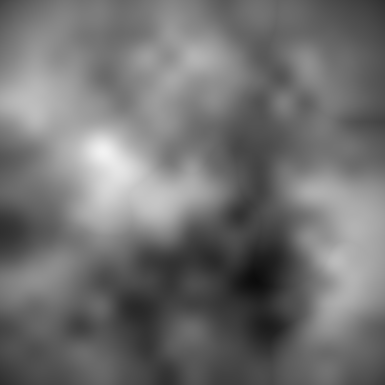
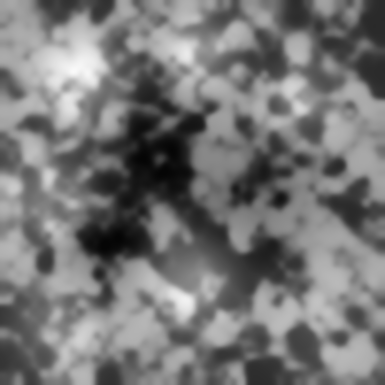
Deploy: steeper terrain + cloud layer (575a9da)

diff --git a/firewolf_client.js b/firewolf_client.js
@@ -1595,57 +1595,57 @@ function __wbg_get_imports() {
             return ret;
         },
         __wbindgen_cast_0000000000000001: function(arg0, arg1) {
-            // Cast intrinsic for `Closure(Closure { owned: true, function: Function { arguments: [Externref], shim_idx: 42385, ret: Result(Unit), inner_ret: Some(Result(Unit)) }, mutable: true }) -> Externref`.
+            // Cast intrinsic for `Closure(Closure { owned: true, function: Function { arguments: [Externref], shim_idx: 42687, ret: Result(Unit), inner_ret: Some(Result(Unit)) }, mutable: true }) -> Externref`.
             const ret = makeMutClosure(arg0, arg1, wasm_bindgen__convert__closures_____invoke__h1dd2e5f569296800);
             return ret;
         },
         __wbindgen_cast_0000000000000002: function(arg0, arg1) {
-            // Cast intrinsic for `Closure(Closure { owned: true, function: Function { arguments: [Externref], shim_idx: 6804, ret: Unit, inner_ret: Some(Unit) }, mutable: true }) -> Externref`.
+            // Cast intrinsic for `Closure(Closure { owned: true, function: Function { arguments: [Externref], shim_idx: 7106, ret: Unit, inner_ret: Some(Unit) }, mutable: true }) -> Externref`.
             const ret = makeMutClosure(arg0, arg1, wasm_bindgen__convert__closures_____invoke__h089794d91ba63d12);
             return ret;
         },
         __wbindgen_cast_0000000000000003: function(arg0, arg1) {
-            // Cast intrinsic for `Closure(Closure { owned: true, function: Function { arguments: [NamedExternref("Array<any>"), NamedExternref("ResizeObserver")], shim_idx: 6802, ret: Unit, inner_ret: Some(Unit) }, mutable: true }) -> Externref`.
+            // Cast intrinsic for `Closure(Closure { owned: true, function: Function { arguments: [NamedExternref("Array<any>"), NamedExternref("ResizeObserver")], shim_idx: 7104, ret: Unit, inner_ret: Some(Unit) }, mutable: true }) -> Externref`.
             const ret = makeMutClosure(arg0, arg1, wasm_bindgen__convert__closures_____invoke__hb404d5457b36c9fe);
             return ret;
         },
         __wbindgen_cast_0000000000000004: function(arg0, arg1) {
-            // Cast intrinsic for `Closure(Closure { owned: true, function: Function { arguments: [NamedExternref("Array<any>")], shim_idx: 6804, ret: Unit, inner_ret: Some(Unit) }, mutable: true }) -> Externref`.
+            // Cast intrinsic for `Closure(Closure { owned: true, function: Function { arguments: [NamedExternref("Array<any>")], shim_idx: 7106, ret: Unit, inner_ret: Some(Unit) }, mutable: true }) -> Externref`.
             const ret = makeMutClosure(arg0, arg1, wasm_bindgen__convert__closures_____invoke__h089794d91ba63d12_3);
             return ret;
         },
         __wbindgen_cast_0000000000000005: function(arg0, arg1) {
-            // Cast intrinsic for `Closure(Closure { owned: true, function: Function { arguments: [NamedExternref("Event")], shim_idx: 6804, ret: Unit, inner_ret: Some(Unit) }, mutable: true }) -> Externref`.
+            // Cast intrinsic for `Closure(Closure { owned: true, function: Function { arguments: [NamedExternref("Event")], shim_idx: 7106, ret: Unit, inner_ret: Some(Unit) }, mutable: true }) -> Externref`.
             const ret = makeMutClosure(arg0, arg1, wasm_bindgen__convert__closures_____invoke__h089794d91ba63d12_4);
             return ret;
         },
         __wbindgen_cast_0000000000000006: function(arg0, arg1) {
-            // Cast intrinsic for `Closure(Closure { owned: true, function: Function { arguments: [NamedExternref("FocusEvent")], shim_idx: 6804, ret: Unit, inner_ret: Some(Unit) }, mutable: true }) -> Externref`.
+            // Cast intrinsic for `Closure(Closure { owned: true, function: Function { arguments: [NamedExternref("FocusEvent")], shim_idx: 7106, ret: Unit, inner_ret: Some(Unit) }, mutable: true }) -> Externref`.
             const ret = makeMutClosure(arg0, arg1, wasm_bindgen__convert__closures_____invoke__h089794d91ba63d12_5);
             return ret;
         },
         __wbindgen_cast_0000000000000007: function(arg0, arg1) {
-            // Cast intrinsic for `Closure(Closure { owned: true, function: Function { arguments: [NamedExternref("KeyboardEvent")], shim_idx: 6804, ret: Unit, inner_ret: Some(Unit) }, mutable: true }) -> Externref`.
+            // Cast intrinsic for `Closure(Closure { owned: true, function: Function { arguments: [NamedExternref("KeyboardEvent")], shim_idx: 7106, ret: Unit, inner_ret: Some(Unit) }, mutable: true }) -> Externref`.
             const ret = makeMutClosure(arg0, arg1, wasm_bindgen__convert__closures_____invoke__h089794d91ba63d12_6);
             return ret;
         },
         __wbindgen_cast_0000000000000008: function(arg0, arg1) {
-            // Cast intrinsic for `Closure(Closure { owned: true, function: Function { arguments: [NamedExternref("PageTransitionEvent")], shim_idx: 6804, ret: Unit, inner_ret: Some(Unit) }, mutable: true }) -> Externref`.
+            // Cast intrinsic for `Closure(Closure { owned: true, function: Function { arguments: [NamedExternref("PageTransitionEvent")], shim_idx: 7106, ret: Unit, inner_ret: Some(Unit) }, mutable: true }) -> Externref`.
             const ret = makeMutClosure(arg0, arg1, wasm_bindgen__convert__closures_____invoke__h089794d91ba63d12_7);
             return ret;
         },
         __wbindgen_cast_0000000000000009: function(arg0, arg1) {
-            // Cast intrinsic for `Closure(Closure { owned: true, function: Function { arguments: [NamedExternref("PointerEvent")], shim_idx: 6804, ret: Unit, inner_ret: Some(Unit) }, mutable: true }) -> Externref`.
+            // Cast intrinsic for `Closure(Closure { owned: true, function: Function { arguments: [NamedExternref("PointerEvent")], shim_idx: 7106, ret: Unit, inner_ret: Some(Unit) }, mutable: true }) -> Externref`.
             const ret = makeMutClosure(arg0, arg1, wasm_bindgen__convert__closures_____invoke__h089794d91ba63d12_8);
             return ret;
         },
         __wbindgen_cast_000000000000000a: function(arg0, arg1) {
-            // Cast intrinsic for `Closure(Closure { owned: true, function: Function { arguments: [NamedExternref("WheelEvent")], shim_idx: 6804, ret: Unit, inner_ret: Some(Unit) }, mutable: true }) -> Externref`.
+            // Cast intrinsic for `Closure(Closure { owned: true, function: Function { arguments: [NamedExternref("WheelEvent")], shim_idx: 7106, ret: Unit, inner_ret: Some(Unit) }, mutable: true }) -> Externref`.
             const ret = makeMutClosure(arg0, arg1, wasm_bindgen__convert__closures_____invoke__h089794d91ba63d12_9);
             return ret;
         },
         __wbindgen_cast_000000000000000b: function(arg0, arg1) {
-            // Cast intrinsic for `Closure(Closure { owned: true, function: Function { arguments: [], shim_idx: 6807, ret: Unit, inner_ret: Some(Unit) }, mutable: true }) -> Externref`.
+            // Cast intrinsic for `Closure(Closure { owned: true, function: Function { arguments: [], shim_idx: 7109, ret: Unit, inner_ret: Some(Unit) }, mutable: true }) -> Externref`.
             const ret = makeMutClosure(arg0, arg1, wasm_bindgen__convert__closures_____invoke__h2988f8641eecfad3);
             return ret;
         },